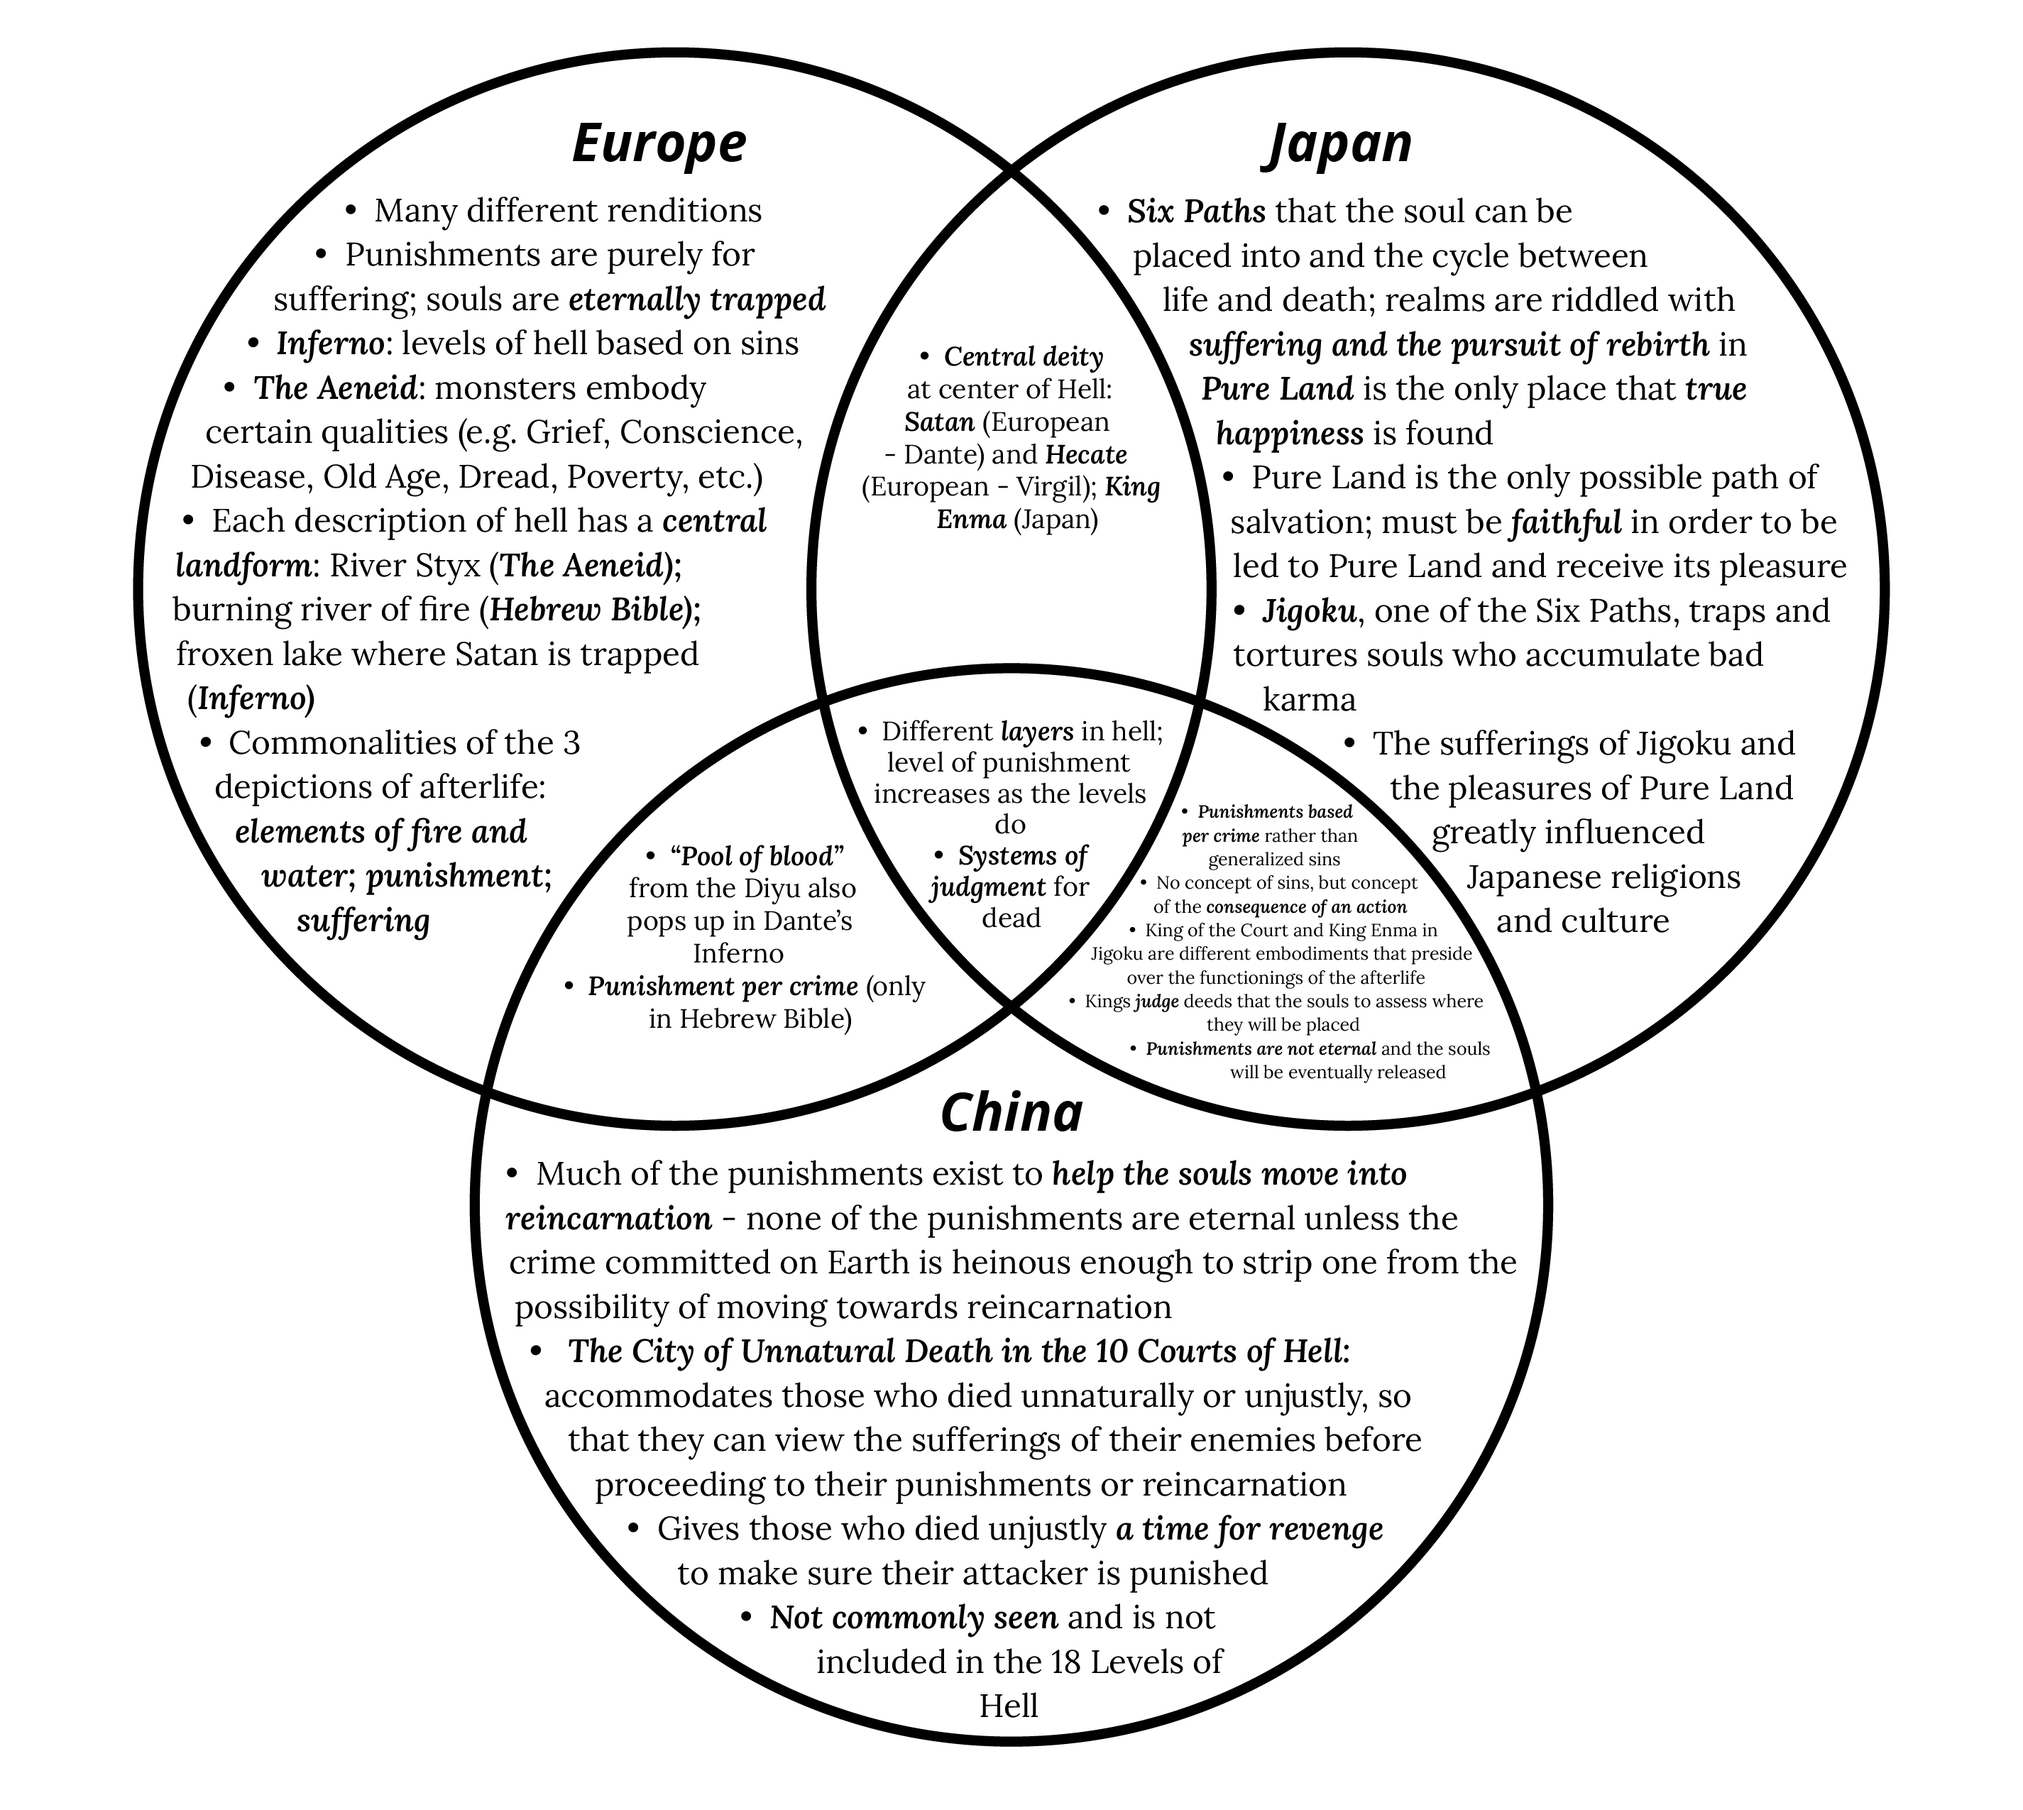
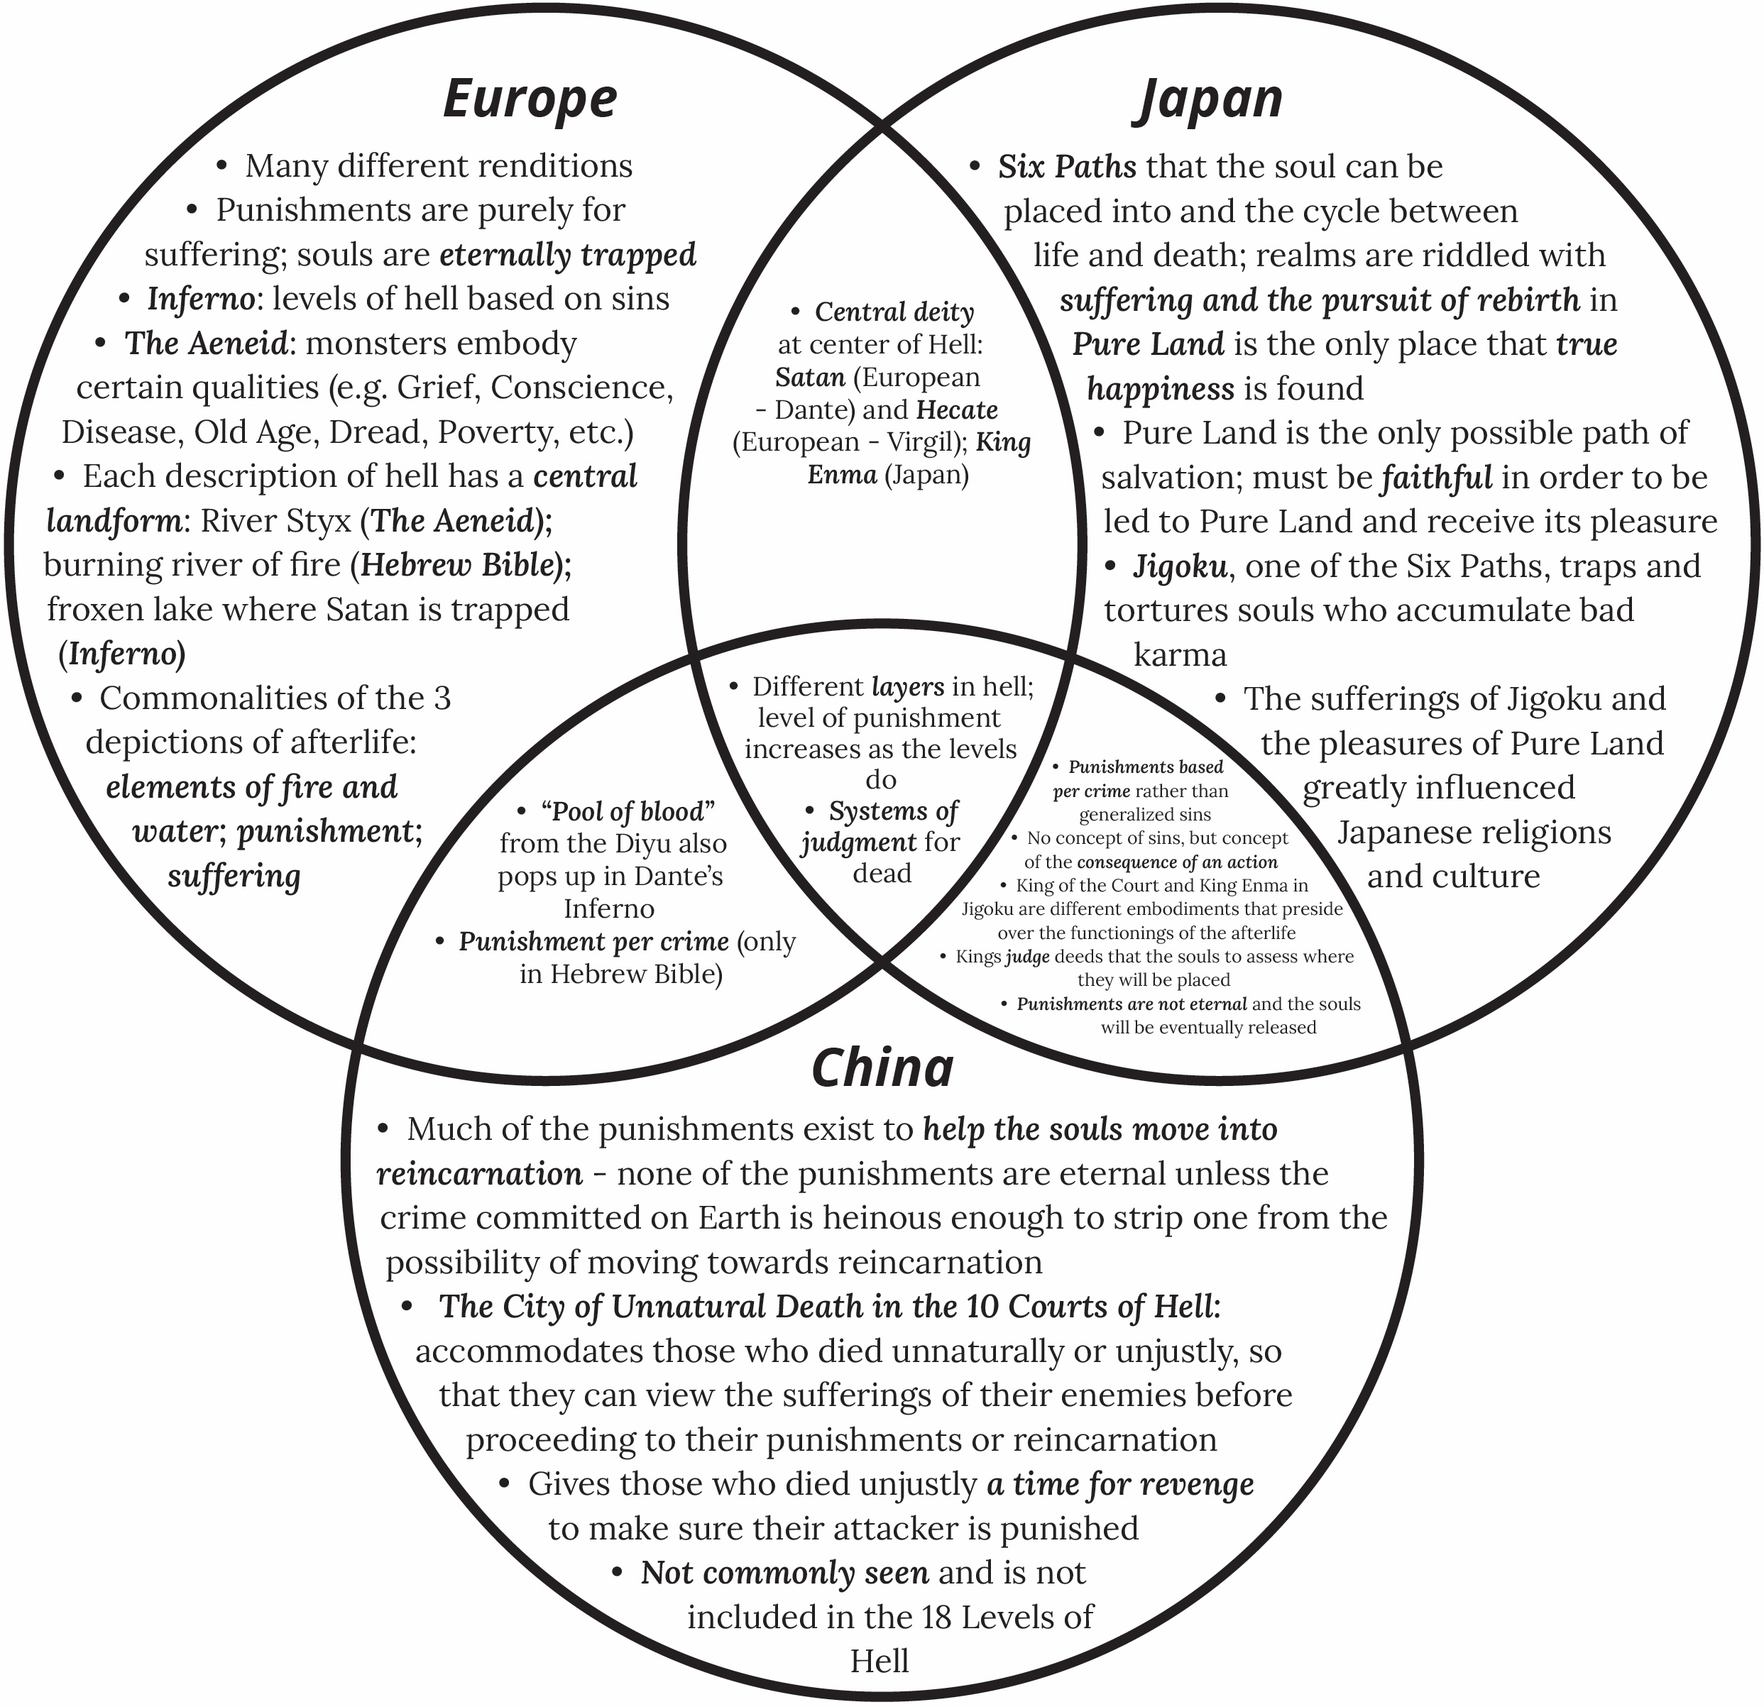
image zoom

diff --git a/post_comparison.html b/post_comparison.html
@@ -83,7 +83,10 @@
     <div class="container">
       <div class="row">
         <div class="col-lg-8 col-md-10 mx-auto">
-          <img class="img-fluid" src="img/monsters_venn.jpg" alt="">
+          <a href="https://belle-chang.github.io/conceptualizations-of-monsters/img/monsters_venn.jpg">
+            <img class="img-fluid" src="img/monsters_venn.jpg" alt="">
+          </a>
+          <span class="caption text-muted">Click <a href="https://belle-chang.github.io/conceptualizations-of-monsters/img/monsters_venn.jpg">here</a> to be able to zoom in.</span>
 
           <!-- <p>Never in all their history have men been able truly to conceive of the world as one: a single sphere, a globe, having the qualities of a globe, a round earth in which all the directions eventually meet, in which there is no center because every point, or none, is center — an equal earth which all men occupy as equals. The airman's earth, if free men make it, will be truly round: a globe in practice, not in theory.</p>
 
